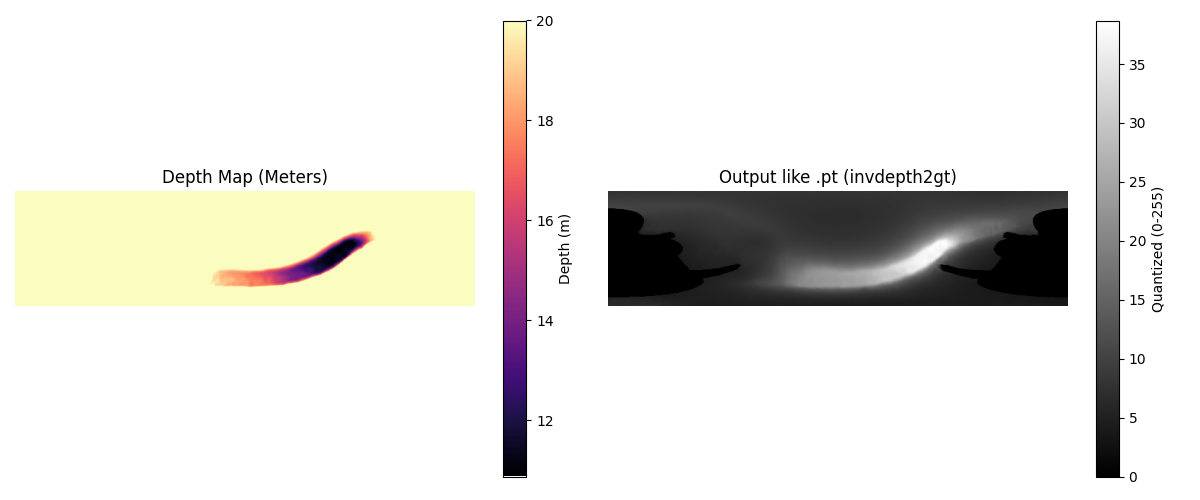
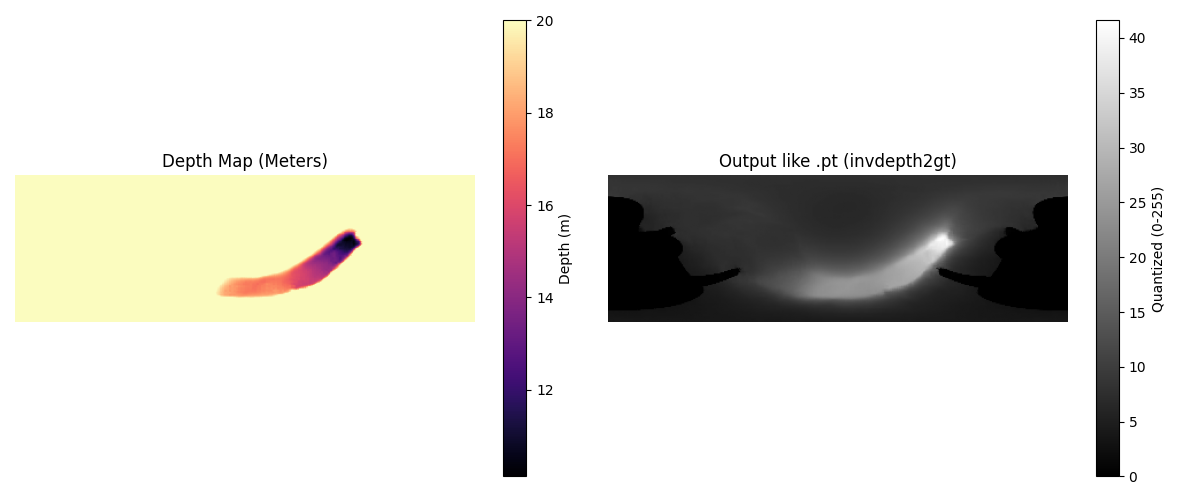
change equirect_size in dataset file

diff --git a/load_test.cpp b/load_test.cpp
@@ -1,0 +1,203 @@
+#include <iostream>
+#include <vector>
+#include <string>
+#include <algorithm>
+#include <filesystem>
+#include <fstream>
+#include <memory>
+
+// OpenCV Headers
+#include <opencv2/opencv.hpp>
+
+// SNPE Headers
+#include "SNPE/SNPE.hpp"
+#include "SNPE/SNPEFactory.hpp"
+#include "SNPE/SNPEBuilder.hpp"
+#include "DlSystem/DlError.hpp"
+#include "DlSystem/RuntimeList.hpp"
+#include "DlSystem/UserBufferMap.hpp"
+#include "DlContainer/IDlContainer.hpp"
+#include "DlSystem/ITensorFactory.hpp"
+#include "DlSystem/StringList.hpp"
+
+namespace fs = std::filesystem;
+
+const std::string MODEL_PATH = "/opt/models/onnxsim_romnistereo32_v13_bs16_e194_quantized.dlc"; // Sửa tên file DLC của bạn
+const std::string DATA_ROOT  = "/opt/omnidata/hyp_01";
+const std::string GRID_DIR   = "/opt/omnidata/grids"; // Nơi chứa grid0.raw, grid1.raw...
+
+std::unique_ptr<zdl::DlSystem::ITensor> loadRawInput(const std::string& filePath, const zdl::DlSystem::TensorShape& shape) {
+    auto tensor = zdl::SNPE::SNPEFactory::getTensorFactory().createTensor(shape);
+    if (!tensor) return nullptr;
+
+    std::ifstream file(filePath, std::ios::binary);
+    if (!file) {
+        std::cerr << "[ERROR] Cannot open file: " << filePath << std::endl;
+        return nullptr;
+    }
+    file.read(reinterpret_cast<char*>(&tensor->begin()[0]), tensor->getSize() * sizeof(float));
+    return tensor;
+}
+
+
+std::unique_ptr<zdl::DlSystem::ITensor> processImage(const std::string& imgPath, const zdl::DlSystem::TensorShape& shape) {
+
+    cv::Mat img = cv::imread(imgPath, cv::IMREAD_GRAYSCALE);
+    if (img.empty()) {
+        std::cerr << "[ERROR] Cannot read image: " << imgPath << std::endl;
+        return nullptr;
+    }
+
+
+    const auto* dims = shape.getDimensions();
+    size_t rank = shape.rank();
+    size_t H = dims[rank - 2]; 
+    size_t W = dims[rank - 1]; 
+    
+    
+    // 3. Resize
+    cv::Mat resized;
+    cv::resize(img, resized, cv::Size(W, H));
+
+
+    resized.convertTo(resized, CV_32F);
+    
+
+    resized = resized / 255.0f;
+
+    auto tensor = zdl::SNPE::SNPEFactory::getTensorFactory().createTensor(shape);
+    std::copy(resized.begin<float>(), resized.end<float>(), tensor->begin());
+    
+    return tensor;
+}
+
+int main(int argc, char** argv) {
+    
+    std::string dlcPath = MODEL_PATH; 
+    if (argc > 1) {
+        dlcPath = argv[1];
+    }
+    
+    std::cout << "[INFO] Loading DLC from: " << dlcPath << std::endl;
+    // 1. SETUP RUNTIME (DSP ONLY)
+    zdl::DlSystem::RuntimeList runtimeList;
+    runtimeList.add(zdl::DlSystem::Runtime_t::DSP);
+    
+    if (!zdl::SNPE::SNPEFactory::isRuntimeAvailable(zdl::DlSystem::Runtime_t::DSP)) {
+        std::cerr << "[FATAL] DSP Runtime not available!" << std::endl;
+        return -1;
+    }
+
+    // 2. LOAD CONTAINER
+    auto container = zdl::DlContainer::IDlContainer::open(dlcPath);
+    
+    if (!container) {
+        std::cerr << "[FATAL] Failed to open DLC: " << dlcPath << std::endl;
+        return -1;
+    }
+
+    // 3. BUILD ENGINE
+    zdl::SNPE::SNPEBuilder snpeBuilder(container.get());
+    snpeBuilder.setRuntimeProcessorOrder(runtimeList);
+    snpeBuilder.setUseUserSuppliedBuffers(false); 
+    
+    auto snpe = snpeBuilder.build();
+    if (!snpe) {
+        std::cerr << "[FATAL] Build SNPE Failed: " << zdl::DlSystem::getLastErrorString() << std::endl;
+        return -1;
+    }
+    std::cout << "[INFO] SNPE Engine initialized on DSP." << std::endl;
+
+    // 4. PREPARE STATIC INPUTS (GRIDS)
+    
+    std::vector<std::unique_ptr<zdl::DlSystem::ITensor>> gridTensors;
+    std::vector<std::string> gridNames = {"grid0", "grid1", "grid2"};
+    
+    
+    std::map<std::string, zdl::DlSystem::ITensor*> gridPtrs;
+
+    for (const auto& name : gridNames) {
+        
+        auto shapeOpt = snpe->getInputDimensions(name.c_str());
+        if (shapeOpt) {
+            const auto& shape = *shapeOpt; 
+            
+            std::string path = GRID_DIR + "/" + name + ".raw";
+            auto tensor = loadRawInput(path, shape);
+            if (!tensor) return -1;
+            
+            gridPtrs[name] = tensor.get(); 
+            gridTensors.push_back(std::move(tensor)); 
+            std::cout << "[INFO] Loaded " << name << std::endl;
+        } else {
+            std::cerr << "[ERROR] Model does not have input: " << name << std::endl;
+            return -1;
+        }
+    }
+
+    
+    std::string cam1Dir = DATA_ROOT + "/cam1";
+    int frameCount = 0;
+
+    for (const auto& entry : fs::directory_iterator(cam1Dir)) {
+        if (entry.path().extension() == ".png") {
+            std::string filename = entry.path().filename().string();
+            std::cout << "\n--- Processing Frame: " << filename << " ---" << std::endl;
+
+            
+            zdl::DlSystem::TensorMap inputMap;
+
+            
+            for (auto const& [name, ptr] : gridPtrs) {
+                inputMap.add(name.c_str(), ptr);
+            }
+
+            
+            std::vector<std::string> imgInputs = {"img0", "img1", "img2"};
+            std::vector<std::string> imgPaths = {
+                DATA_ROOT + "/cam1/" + filename,
+                DATA_ROOT + "/cam2/" + filename,
+                DATA_ROOT + "/cam3/" + filename
+            };
+            
+            
+            std::vector<std::unique_ptr<zdl::DlSystem::ITensor>> imgTensors;
+
+            bool frameReady = true;
+            for (size_t i = 0; i < 3; ++i) {
+                
+                auto shapeOpt = snpe->getInputDimensions(imgInputs[i].c_str());
+                if (shapeOpt) {
+                    auto tensor = processImage(imgPaths[i], *shapeOpt);
+                    if (!tensor) { frameReady = false; break; }
+                    
+                    inputMap.add(imgInputs[i].c_str(), tensor.get());
+                    imgTensors.push_back(std::move(tensor));
+                }
+            }
+
+            if (!frameReady) continue;
+
+          
+            zdl::DlSystem::TensorMap outputMap;
+            bool status = snpe->execute(inputMap, outputMap);
+
+            if (status) {
+                std::cout << "[SUCCESS] Inference executed on NPU." << std::endl;
+                
+                auto outNames = outputMap.getTensorNames();
+                if (outNames.size() > 0) {
+                     auto pOut = outputMap.getTensor(outNames.at(0));
+                     std::cout << "Output Tensor: " << outNames.at(0) << " First val: " << pOut->begin()[0] << std::endl;
+                }
+            } else {
+                std::cerr << "[FAIL] Inference Error: " << zdl::DlSystem::getLastErrorString() << std::endl;
+            }
+
+            frameCount++;
+            if (frameCount >= 5) break; 
+        }
+    }
+
+    return 0;
+}

diff --git a/inference.py b/inference.py
@@ -12,15 +12,15 @@ from dataset import Dataset
 # ==========================================
 # 1. CONFIGURATION
 # ==========================================
-ONNX_PATH = r"F:\algo\mvs_v119\checkpoints\onnx\romnistereo_v20.onnx"
+ONNX_PATH = r"checkpoints/onnx/romnistereo32_v13_bs16_e194.onnx"
 DB_ROOT = r"F:\Full-Dataset\hyp_data\hyp_data_01\hyp_data_01_trainable"
 DB_NAME = "omnithings"
 
 # SỬA LẠI ĐƯỜNG DẪN ẢNH CỦA BẠN CHO ĐÚNG
 IMG_PATHS = [
-    r"F:\algo\mvs_v119\omnidata\hyp_01\cam1\00001.png",
-    r"F:\algo\mvs_v119\omnidata\hyp_01\cam2\00001.png",
-    r"F:\algo\mvs_v119\omnidata\hyp_01\cam3\00001.png"
+    r"F:\algo\mvs_v119\omnidata\hyp_02\cam1\00001.png",
+    r"F:\algo\mvs_v119\omnidata\hyp_02\cam2\00001.png",
+    r"F:\algo\mvs_v119\omnidata\hyp_02\cam3\00001.png"
 ]
 
 # =============================================================================
@@ -36,7 +36,9 @@ class DepthInference:
         if not os.path.exists(os.path.join(db_root, db_name)):
             raise FileNotFoundError(f"Database not found: {os.path.join(db_root, db_name)}")
 
-        self.input_size = (800, 768) # Kích thước input resize
+        # self.input_size = (800, 768) # Kích thước input resize
+        self.input_size = (400, 384) # Kích thước input resize
+
         
         # --- A. Load Calibration (Tái sử dụng class Dataset) ---
         # Tạo config giả để tránh lỗi 'use_rgb' trong dataset.py
@@ -55,6 +57,8 @@ class DepthInference:
         # Lưu ý: Model ONNX nhận Grid Rank 4 [H, W, D, 2], KHÔNG thêm batch dimension
         self.grids_onnx = [g.astype(np.float32) for g in self.grids]
 
+        print(f" -> Grids ready with shapes: {[g.shape for g in self.grids_onnx]}")
+
         # --- B. Load ONNX Model ---
         print(f" -> Loading ONNX Session...")
         providers = ['CUDAExecutionProvider', 'CPUExecutionProvider']
@@ -69,7 +73,9 @@ class DepthInference:
         """ Đọc ảnh -> Resize -> Normalize -> Add Batch Dim """
         if not os.path.exists(img_path):
             print(f"⚠ Warning: Image not found {img_path}, using black image.")
-            img = np.zeros((768, 800), dtype=np.uint8)
+            # img = np.zeros((768, 800), dtype=np.uint8)
+            img = np.zeros((384, 400), dtype=np.uint8)
+
         else:
             img = cv2.imread(img_path, cv2.IMREAD_GRAYSCALE)
             
@@ -80,9 +86,9 @@ class DepthInference:
         
         # 2. Normalize (Giống logic dataset.py)
         mask = self.masks[cam_idx]
-        if mask is not None and mask.shape != (768, 800):
-             mask = cv2.resize(mask, (800, 768), interpolation=cv2.INTER_NEAREST)
-             
+        if mask is not None and mask.shape != (384, 400):
+             mask = cv2.resize(mask, (400, 384), interpolation=cv2.INTER_NEAREST)
+
         img = img.astype(np.float32)
         
         # Tính mean/std trên vùng valid

diff --git a/test_2.py b/test_2.py
@@ -1,26 +1,12 @@
-import cv2
+import onnx
+from onnx import version_converter
 
-# Đường dẫn ảnh
-path1 = r"F:\Full-Dataset\hyp_data\hyp_data_01\hyp_data_01_trainable\omnithings\mask1.png"
-path2 = r"F:\Full-Dataset\hyp_data\hyp_data_01\hyp_data_01_trainable\omnithings\mask2.png"
-path3 = r"F:\Full-Dataset\hyp_data\hyp_data_01\hyp_data_01_trainable\omnithings\mask3.png"
+model_path = "../onnxsim_romnistereo32_v13_bs16_e194.onnx"
+original_model = onnx.load(model_path)
 
-# Đọc ảnh grayscale
-mask1 = cv2.imread(path1, cv2.IMREAD_GRAYSCALE)
-mask2 = cv2.imread(path2, cv2.IMREAD_GRAYSCALE)
-mask3 = cv2.imread(path3, cv2.IMREAD_GRAYSCALE)
+# Hạ cấp xuống opset 11 hoặc 12
+target_opset = 11 
+converted_model = version_converter.convert_version(original_model, target_opset)
 
-# Resize (width=400, height=384)
-mask1 = cv2.resize(mask1, (400, 384), interpolation=cv2.INTER_NEAREST)
-mask2 = cv2.resize(mask2, (400, 384), interpolation=cv2.INTER_NEAREST)
-mask3 = cv2.resize(mask3, (400, 384), interpolation=cv2.INTER_NEAREST)
-
-import cv2
-import os
-
-save_dir = r"F:\Full-Dataset\hyp_data\hyp_data_01\hyp_data_01_trainable\omnithings_resized"
-os.makedirs(save_dir, exist_ok=True)
-
-cv2.imwrite(os.path.join(save_dir, "mask1.png"), mask1)
-cv2.imwrite(os.path.join(save_dir, "mask2.png"), mask2)
-cv2.imwrite(os.path.join(save_dir, "mask3.png"), mask3)
+onnx.save(converted_model, "../model_opset11.onnx")
+print("Đã chuyển đổi sang Opset 11 thành công!")

diff --git a/export_onnx.py b/export_onnx.py
@@ -36,7 +36,7 @@ def main():
     torch._C._jit_set_profiling_mode(False)
 
     parser = argparse.ArgumentParser()
-    parser.add_argument('--ckpt_path', type=str, required=True)
+    parser.add_argument('--ckpt_path', type=str, default=r"checkpoints/romnistereo32_v13_bs16_e194.pth")
     parser.add_argument('--output_path', type=str, default=r"checkpoints/onnx/romnistereo32_v13_bs16_e194.onnx")
     parser.add_argument('--iters', type=int, default=5)
     args = parser.parse_args()
@@ -66,8 +66,10 @@ def main():
 
     H_out = opts.data_opts.equirect_size[0] // 2
     W_out = opts.data_opts.equirect_size[1] // 2
-    D_out = 96 # num_invdepth // 2
-    grid_shape = (H_out, W_out, D_out, 2) # (80, 320, 96, 2)
+    D_out = 64 # num_invdepth // 2
+    grid_shape = (H_out, W_out, D_out, 2) # (80, 320, 64, 2)
+
+    print(f"Using dummy grid shape: {grid_shape}")
     
     grid0 = torch.randn(*grid_shape)
     grid1 = torch.randn(*grid_shape)
@@ -84,7 +86,7 @@ def main():
         (img0, img1, img2, grid0, grid1, grid2),
         args.output_path,
         export_params=True,
-        opset_version=11, # Quan trọng cho HTP
+        opset_version=18, # Quan trọng cho HTP
         do_constant_folding=True,
         input_names=input_names,
         output_names=output_names,

diff --git a/generate_quant_data.py b/generate_quant_data.py
@@ -30,10 +30,16 @@ class QuantDataGenerator:
         opts.use_rgb = False
         opts.num_downsample = 1
         
+        # --- [FIX] Thêm dòng này để khớp với export_onnx.py ---
+        opts.equirect_size = [128, 400]  # Gốc là [160, 640]
+        opts.num_invdepth = 128          # Gốc là 192
+        # -----------------------------------------------------
+        
         # Load dataset tool để lấy config camera (OCam)
+        # Các tham số trong db_opts sẽ ghi đè config mặc định của dataset
         self.dataset = Dataset(db_name, db_opts=opts, load_lut=False, train=True, db_root=db_root)
         
-        # Tạo Grids (Lookup Tables) - Chỉ cần tạo 1 lần vì nó cố định
+        # Tạo Grids (Lookup Tables)
         print("--- Đang tính toán Rectification Grids ---")
         self.grids = self.dataset.buildLookupTable(output_gpu_tensor=False)
         self.masks = [cam.invalid_mask for cam in self.dataset.ocams]

diff --git a/dataset.py b/dataset.py
@@ -89,7 +89,9 @@ class Dataset(torch.utils.data.Dataset):
         # opts.gt_depth_fmt = 'omnidepth_gt_%d/%05d.png'  # [equi_w, fidx]
         opts.gt_depth_fmt = 'omnidepth_gt_%d/%05d.npy'  # [equi_w, fidx]
 
-        opts.equirect_size, opts.num_invdepth = [160, 640], 192
+        # opts.equirect_size, opts.num_invdepth = [160, 640], 192
+        opts.equirect_size, opts.num_invdepth = [128, 400], 128
+
         opts.num_downsample = 1
         opts.phi_deg, opts.phi2_deg = 45, -1.0
         opts.min_depth = 0.5  # meter scale

diff --git a/test.py b/test.py
@@ -1,7 +1,7 @@
 import onnx
 
 # Đường dẫn file ONNX của bạn
-model_path = r"F:\algo\mvs_v119\romni_final_for_htp.onnx"
+model_path = r"F:\algo\mvs_v119\checkpoints\onnx\romnistereo32_v13_bs16_e194.onnx"
 model = onnx.load(model_path)
 
 print("--- INPUT NAMES IN ONNX ---")
